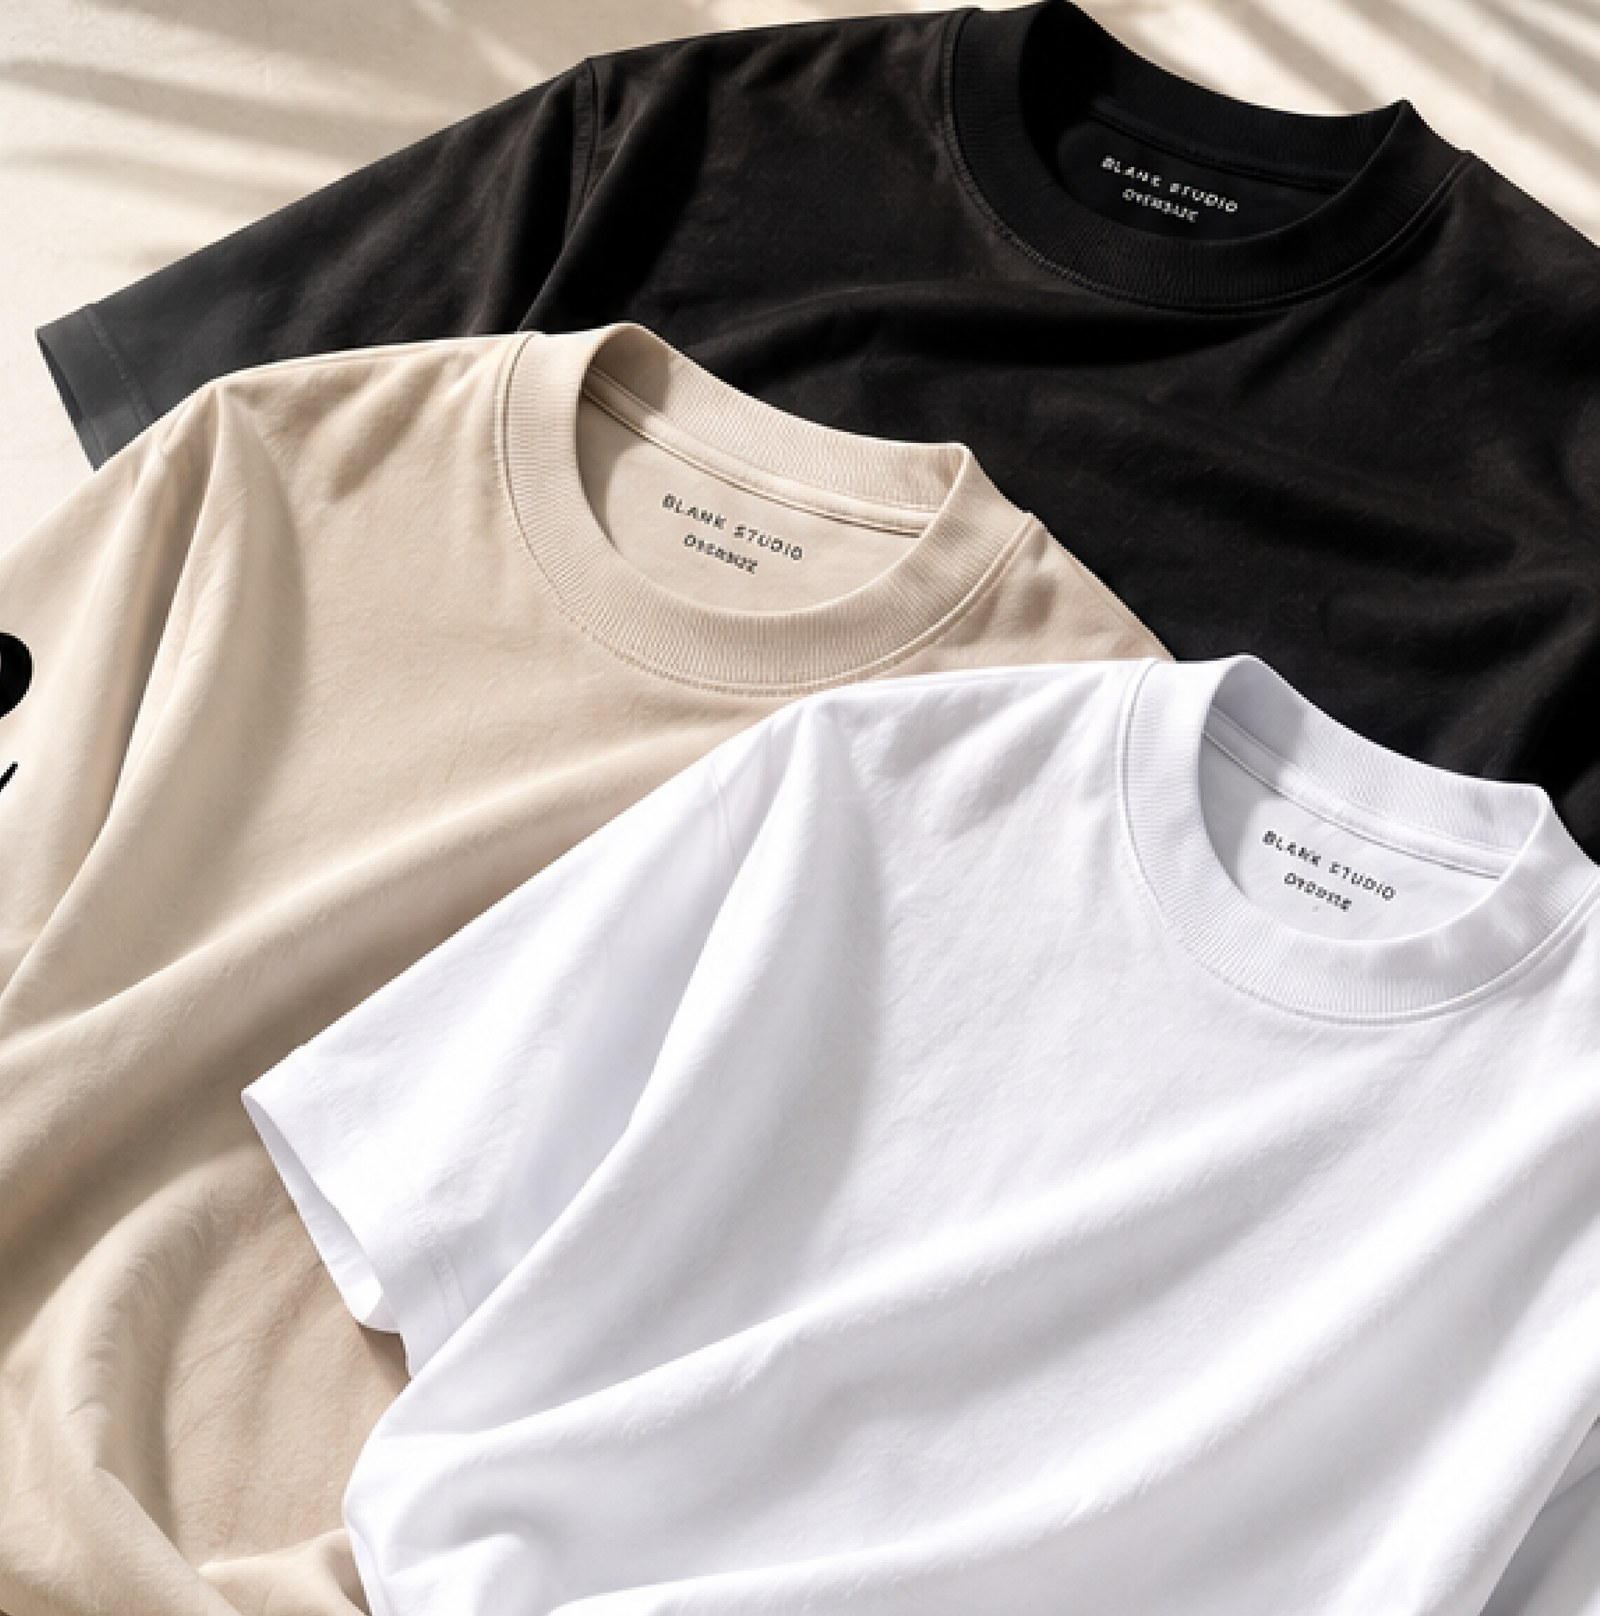
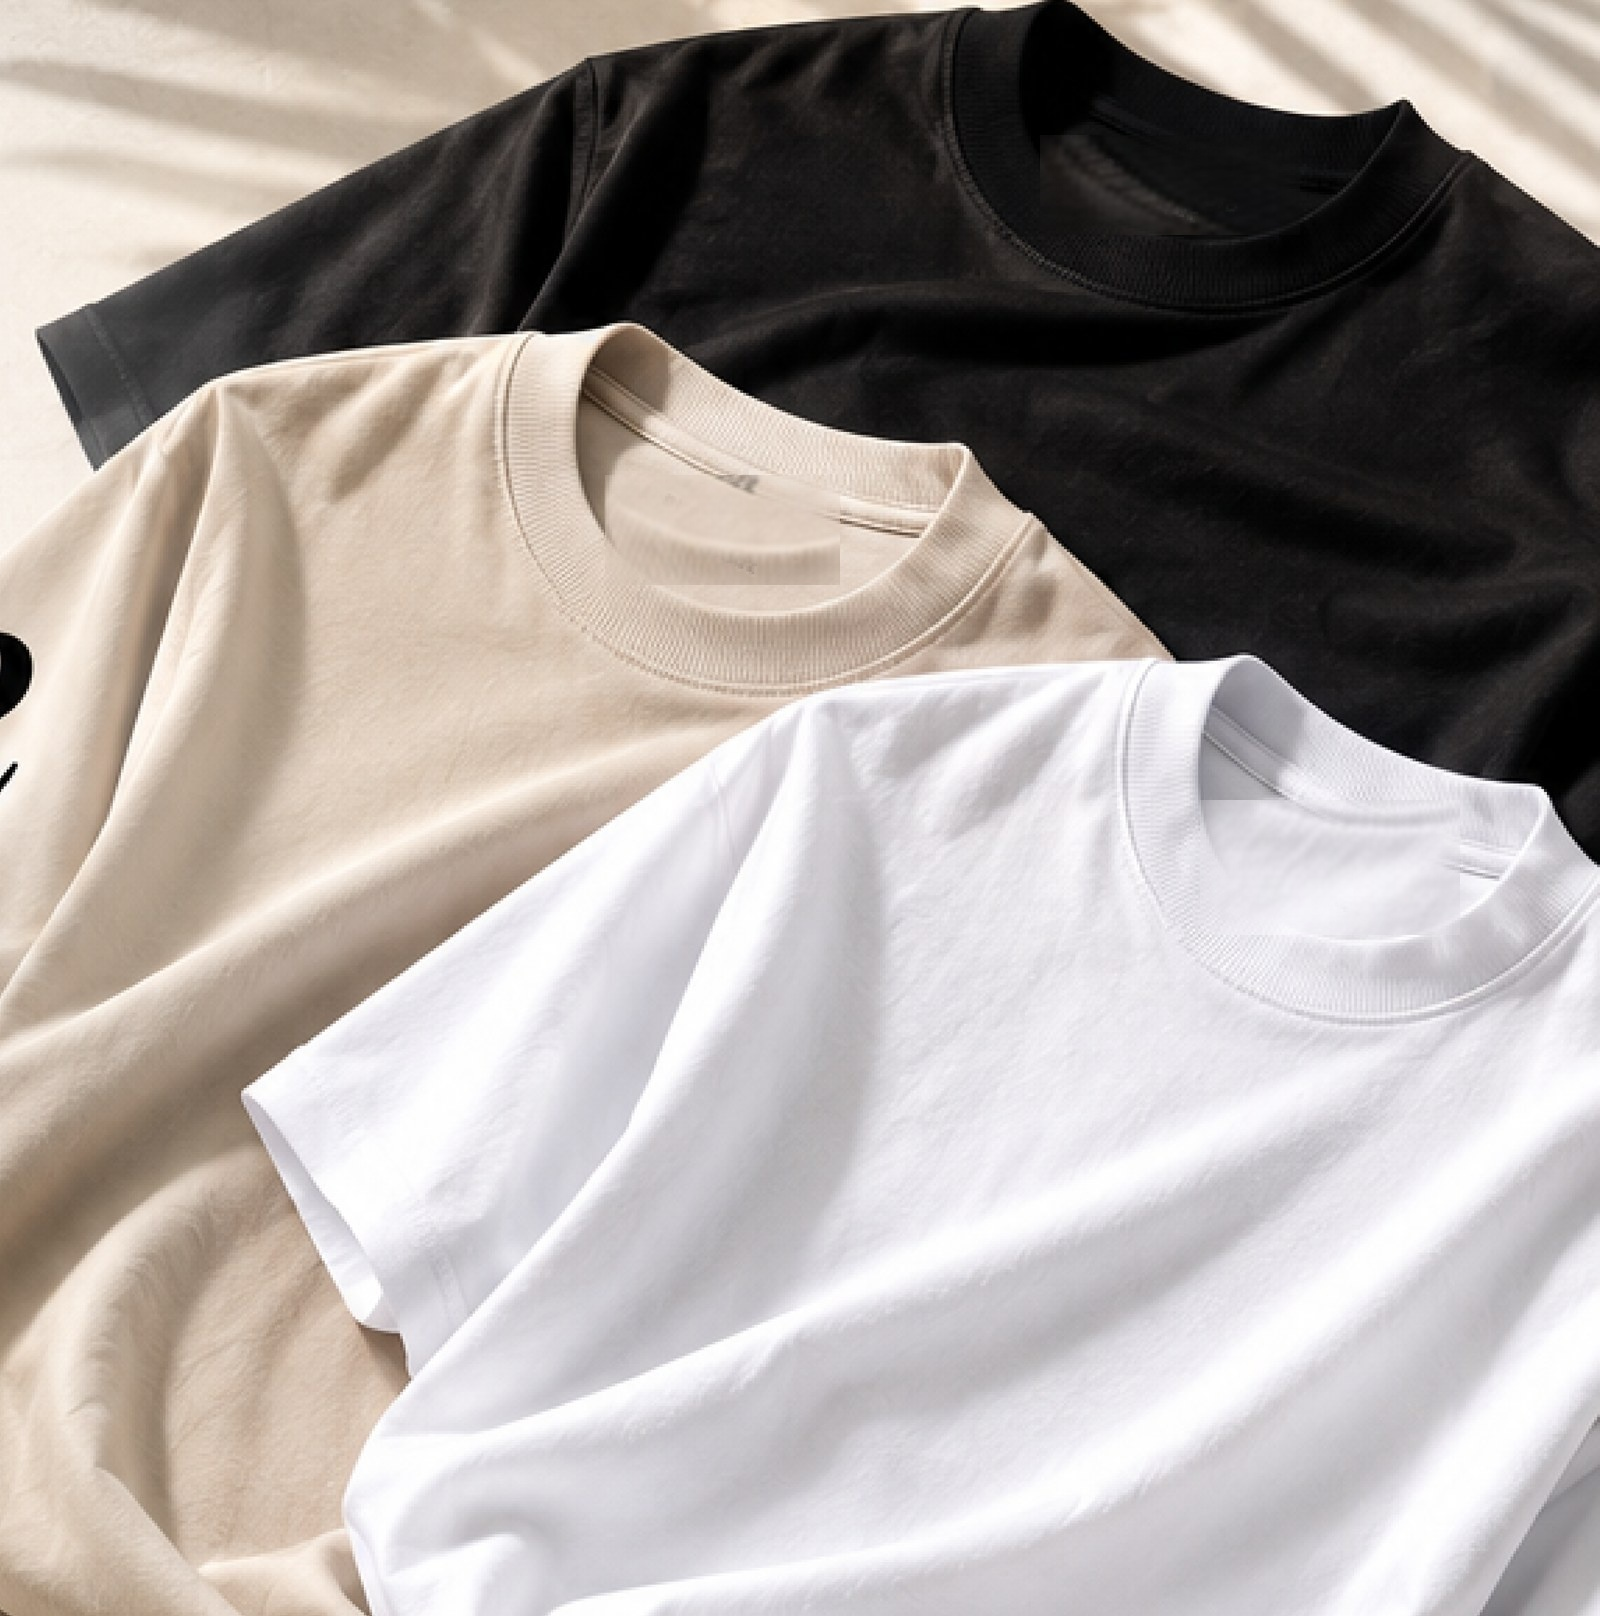
Reorganize homepage/footer inspired by Mattelsa's IA, fix stale branding
Studied mattelsa.net's structure (announcement ticker, triple category
banner, product shelves, richer footer columns) and adapted it to
VALENCIANO with real content only:
- New site-wide announcement bar with real claims (100% algodón peruano,
  envíos a Colombia, pedidos por Instagram, hecho para durar)
- Category split expanded from 2 to 3 tiles: Iconic / Origin / Legacy,
  matching the nav structure
- Footer split into Comprar / Ayuda / La marca columns
- Added a real #valores anchor on /marca backing the new footer link

Also fixed a real pre-existing bug found while reviewing images for the
homepage tiles: three product photos and the Origin mockup still had
"BLANK STUDIO" text baked in from before the rebrand (visible on the
Origin page and product labels). Patched the tag labels clean and
redrew the Origin mockup with "VALENCIANO®" in the same tone-on-tone
puff-print style.

diff --git a/src/app/page.tsx b/src/app/page.tsx
@@ -41,19 +41,31 @@ export default function Home() {
       </section>
 
       {/* CATEGORY SPLIT */}
-      <section className="grid grid-cols-1 gap-px bg-line sm:grid-cols-2">
+      <section className="grid grid-cols-1 gap-px bg-line sm:grid-cols-3">
         {[
           {
-            href: "/catalogo?fit=essential",
-            label: "Essentials",
-            desc: "Horma normal · 200 / 300 GSM",
-            img: "/catalog/essentials-300-beige.jpg",
+            href: "/catalogo",
+            label: "Iconic",
+            desc: "Essentials & Oversize · 200 / 300 GSM",
+            img: "/catalog/oversize-300-stack.jpg",
+            gradient: "from-[#d9d2c2] via-[#c9c2b0] to-[#b6ae9c]",
+            cta: "Explorar →",
           },
           {
-            href: "/catalogo?fit=oversize",
-            label: "Oversize",
-            desc: "Silueta amplia · 200 / 300 GSM",
-            img: "/catalog/oversize-300-stack.jpg",
+            href: "/origin",
+            label: "Origin",
+            desc: "Próximo lanzamiento",
+            img: "/upcoming/studio-series-verde.jpg",
+            gradient: "from-[#1f4f3b] via-[#1b432f] to-[#0f2c21]",
+            cta: "Ver más →",
+          },
+          {
+            href: "/legacy",
+            label: "Legacy",
+            desc: "Próximo lanzamiento",
+            img: "/upcoming/icon-series.jpg",
+            gradient: "from-[#1c1b19] via-[#141312] to-[#0c0b0a]",
+            cta: "Ver más →",
           },
         ].map((cat) => (
           <Link
@@ -64,7 +76,7 @@ export default function Home() {
             <EditorialImage
               src={cat.img}
               alt={cat.label}
-              gradient="from-[#d9d2c2] via-[#c9c2b0] to-[#b6ae9c]"
+              gradient={cat.gradient}
               className="transition-transform duration-700 ease-out group-hover:scale-105"
             />
             <div className="absolute inset-0 bg-gradient-to-t from-black/50 to-transparent" />
@@ -74,7 +86,7 @@ export default function Home() {
               </p>
               <p className="label mt-2 text-white/75">{cat.desc}</p>
               <span className="label mt-5 inline-block border-b border-white/60 pb-1 text-white">
-                Explorar →
+                {cat.cta}
               </span>
             </div>
           </Link>
@@ -85,7 +97,7 @@ export default function Home() {
       <section className="mx-auto max-w-[1600px] px-5 py-28 sm:px-8">
         <div className="mb-12 flex items-end justify-between">
           <div>
-            <p className="label text-ink/40">Catálogo</p>
+            <p className="label text-ink/40">Iconic</p>
             <h2 className="font-display mt-3 text-3xl sm:text-4xl">
               Las cuatro esenciales
             </h2>

diff --git a/src/components/SiteFooter.tsx b/src/components/SiteFooter.tsx
@@ -15,8 +15,14 @@ const COLUMNS = [
     links: [
       { href: "/guia-de-tallas", label: "Guía de tallas" },
       { href: "/pedido", label: "Cómo hacer un pedido" },
-      { href: "/marca", label: "Sobre VALENCIANO" },
       { href: "/terminos", label: "Términos y condiciones" },
+    ],
+  },
+  {
+    title: "La marca",
+    links: [
+      { href: "/marca", label: "Sobre VALENCIANO" },
+      { href: "/marca#valores", label: "Nuestros valores" },
     ],
   },
 ];
@@ -25,8 +31,8 @@ export default function SiteFooter() {
   return (
     <footer className="mt-32 border-t border-line">
       <div className="mx-auto max-w-[1600px] px-5 py-16 sm:px-8">
-        <div className="grid grid-cols-2 gap-10 md:grid-cols-4">
-          <div className="col-span-2 md:col-span-2">
+        <div className="grid grid-cols-2 gap-10 md:grid-cols-5">
+          <div className="col-span-2">
             <p className="font-logo flex items-center gap-2.5 text-2xl tracking-[0.22em]">
               VALENCIANO
             </p>

diff --git a/src/components/AnnouncementBar.tsx b/src/components/AnnouncementBar.tsx
@@ -1,0 +1,23 @@
+const MESSAGES = [
+  "100% algodón peruano",
+  "Envíos a todo Colombia",
+  "Pedidos vía Instagram DM",
+  "Hecho para durar",
+];
+
+export default function AnnouncementBar() {
+  return (
+    <div className="flex h-9 items-center overflow-x-auto bg-ink px-4 sm:justify-center">
+      <div className="flex items-center gap-3 sm:gap-6">
+        {MESSAGES.map((msg, i) => (
+          <span key={msg} className="flex items-center gap-3 sm:gap-6">
+            {i > 0 && <span className="hidden h-1 w-1 rounded-full bg-paper/40 sm:block" />}
+            <span className="label whitespace-nowrap text-paper/80" style={{ fontSize: "0.6875rem" }}>
+              {msg}
+            </span>
+          </span>
+        ))}
+      </div>
+    </div>
+  );
+}

diff --git a/src/app/layout.tsx b/src/app/layout.tsx
@@ -3,6 +3,7 @@ import { Bodoni_Moda, Italiana } from "next/font/google";
 import "./globals.css";
 import { CartProvider } from "@/context/CartContext";
 import CartDrawer from "@/components/CartDrawer";
+import AnnouncementBar from "@/components/AnnouncementBar";
 import SiteHeader from "@/components/SiteHeader";
 import SiteFooter from "@/components/SiteFooter";
 
@@ -61,6 +62,7 @@ export default function RootLayout({
     >
       <body className="min-h-full flex flex-col bg-paper text-ink">
         <CartProvider>
+          <AnnouncementBar />
           <SiteHeader />
           <main className="flex-1">{children}</main>
           <SiteFooter />

diff --git a/src/app/marca/page.tsx b/src/app/marca/page.tsx
@@ -55,7 +55,10 @@ export default function MarcaPage() {
         </p>
       </section>
 
-      <section className="mx-auto grid max-w-5xl grid-cols-1 gap-10 px-5 pb-24 sm:px-8 md:grid-cols-3">
+      <section
+        id="valores"
+        className="mx-auto grid max-w-5xl scroll-mt-16 grid-cols-1 gap-10 px-5 pb-24 sm:px-8 md:grid-cols-3"
+      >
         {VALUES.map((v) => (
           <div key={v.title} className="border-t border-ink/20 pt-6">
             <h3 className="font-display text-xl">{v.title}</h3>
